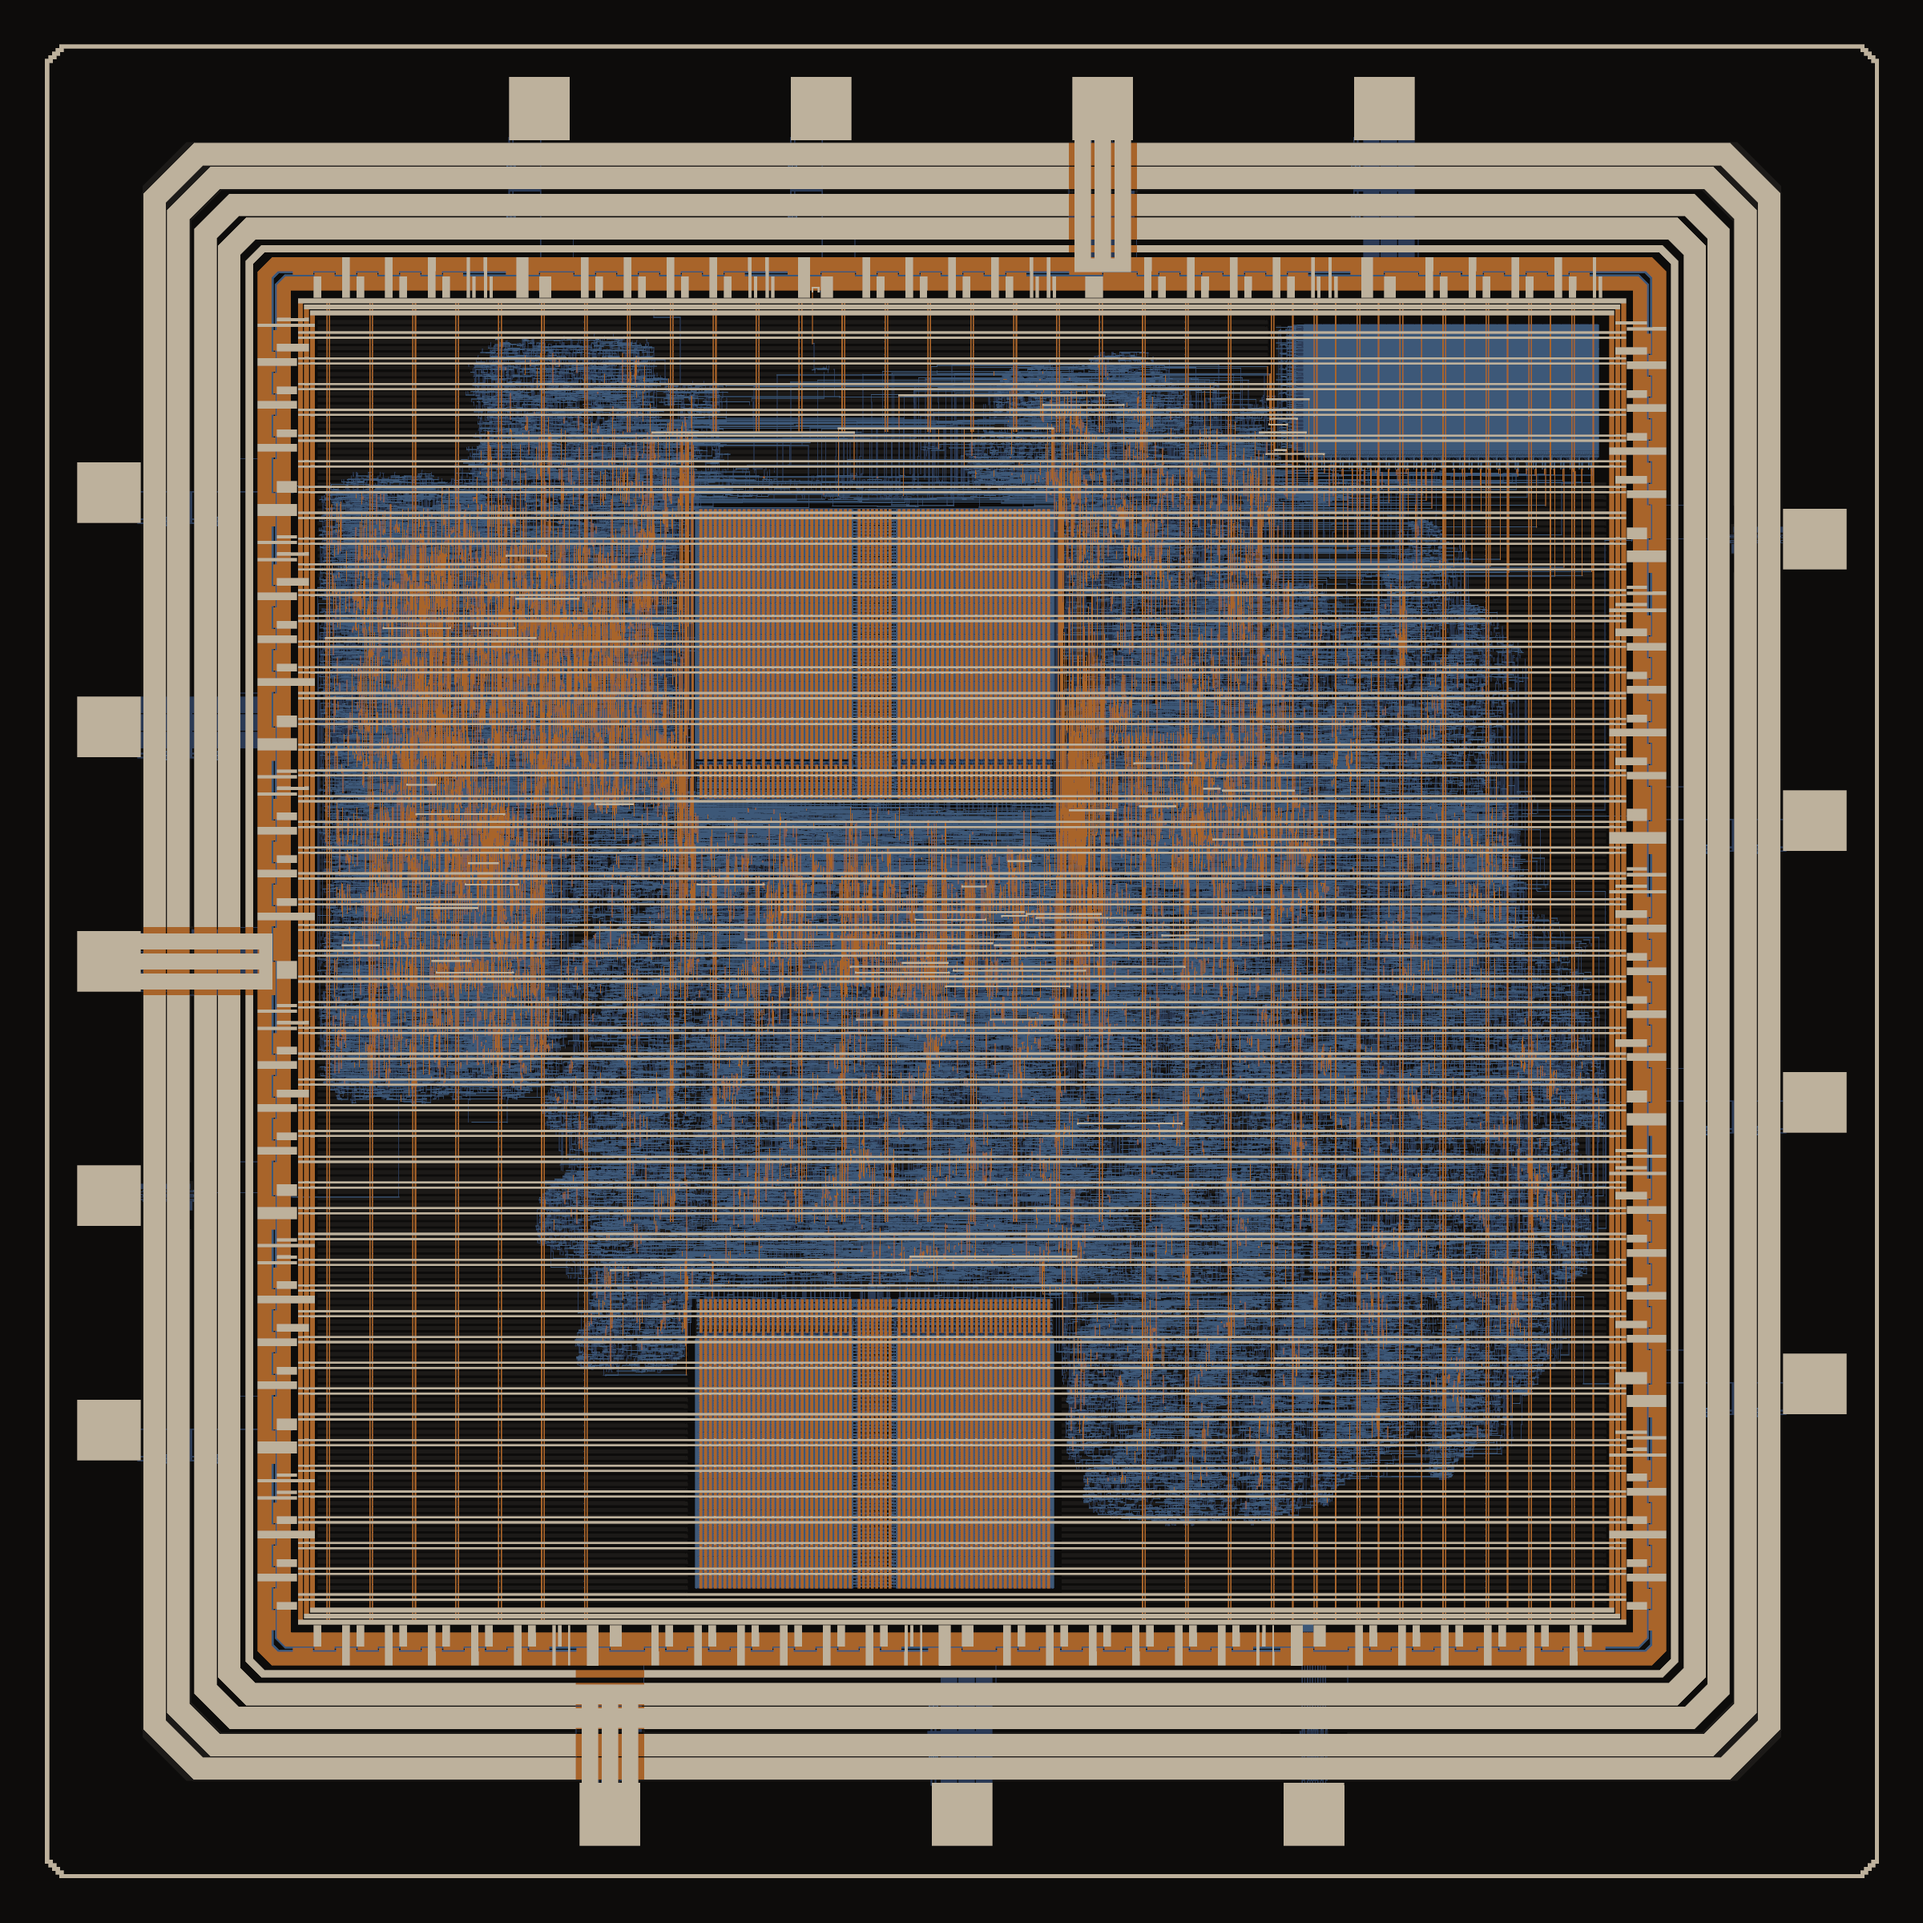
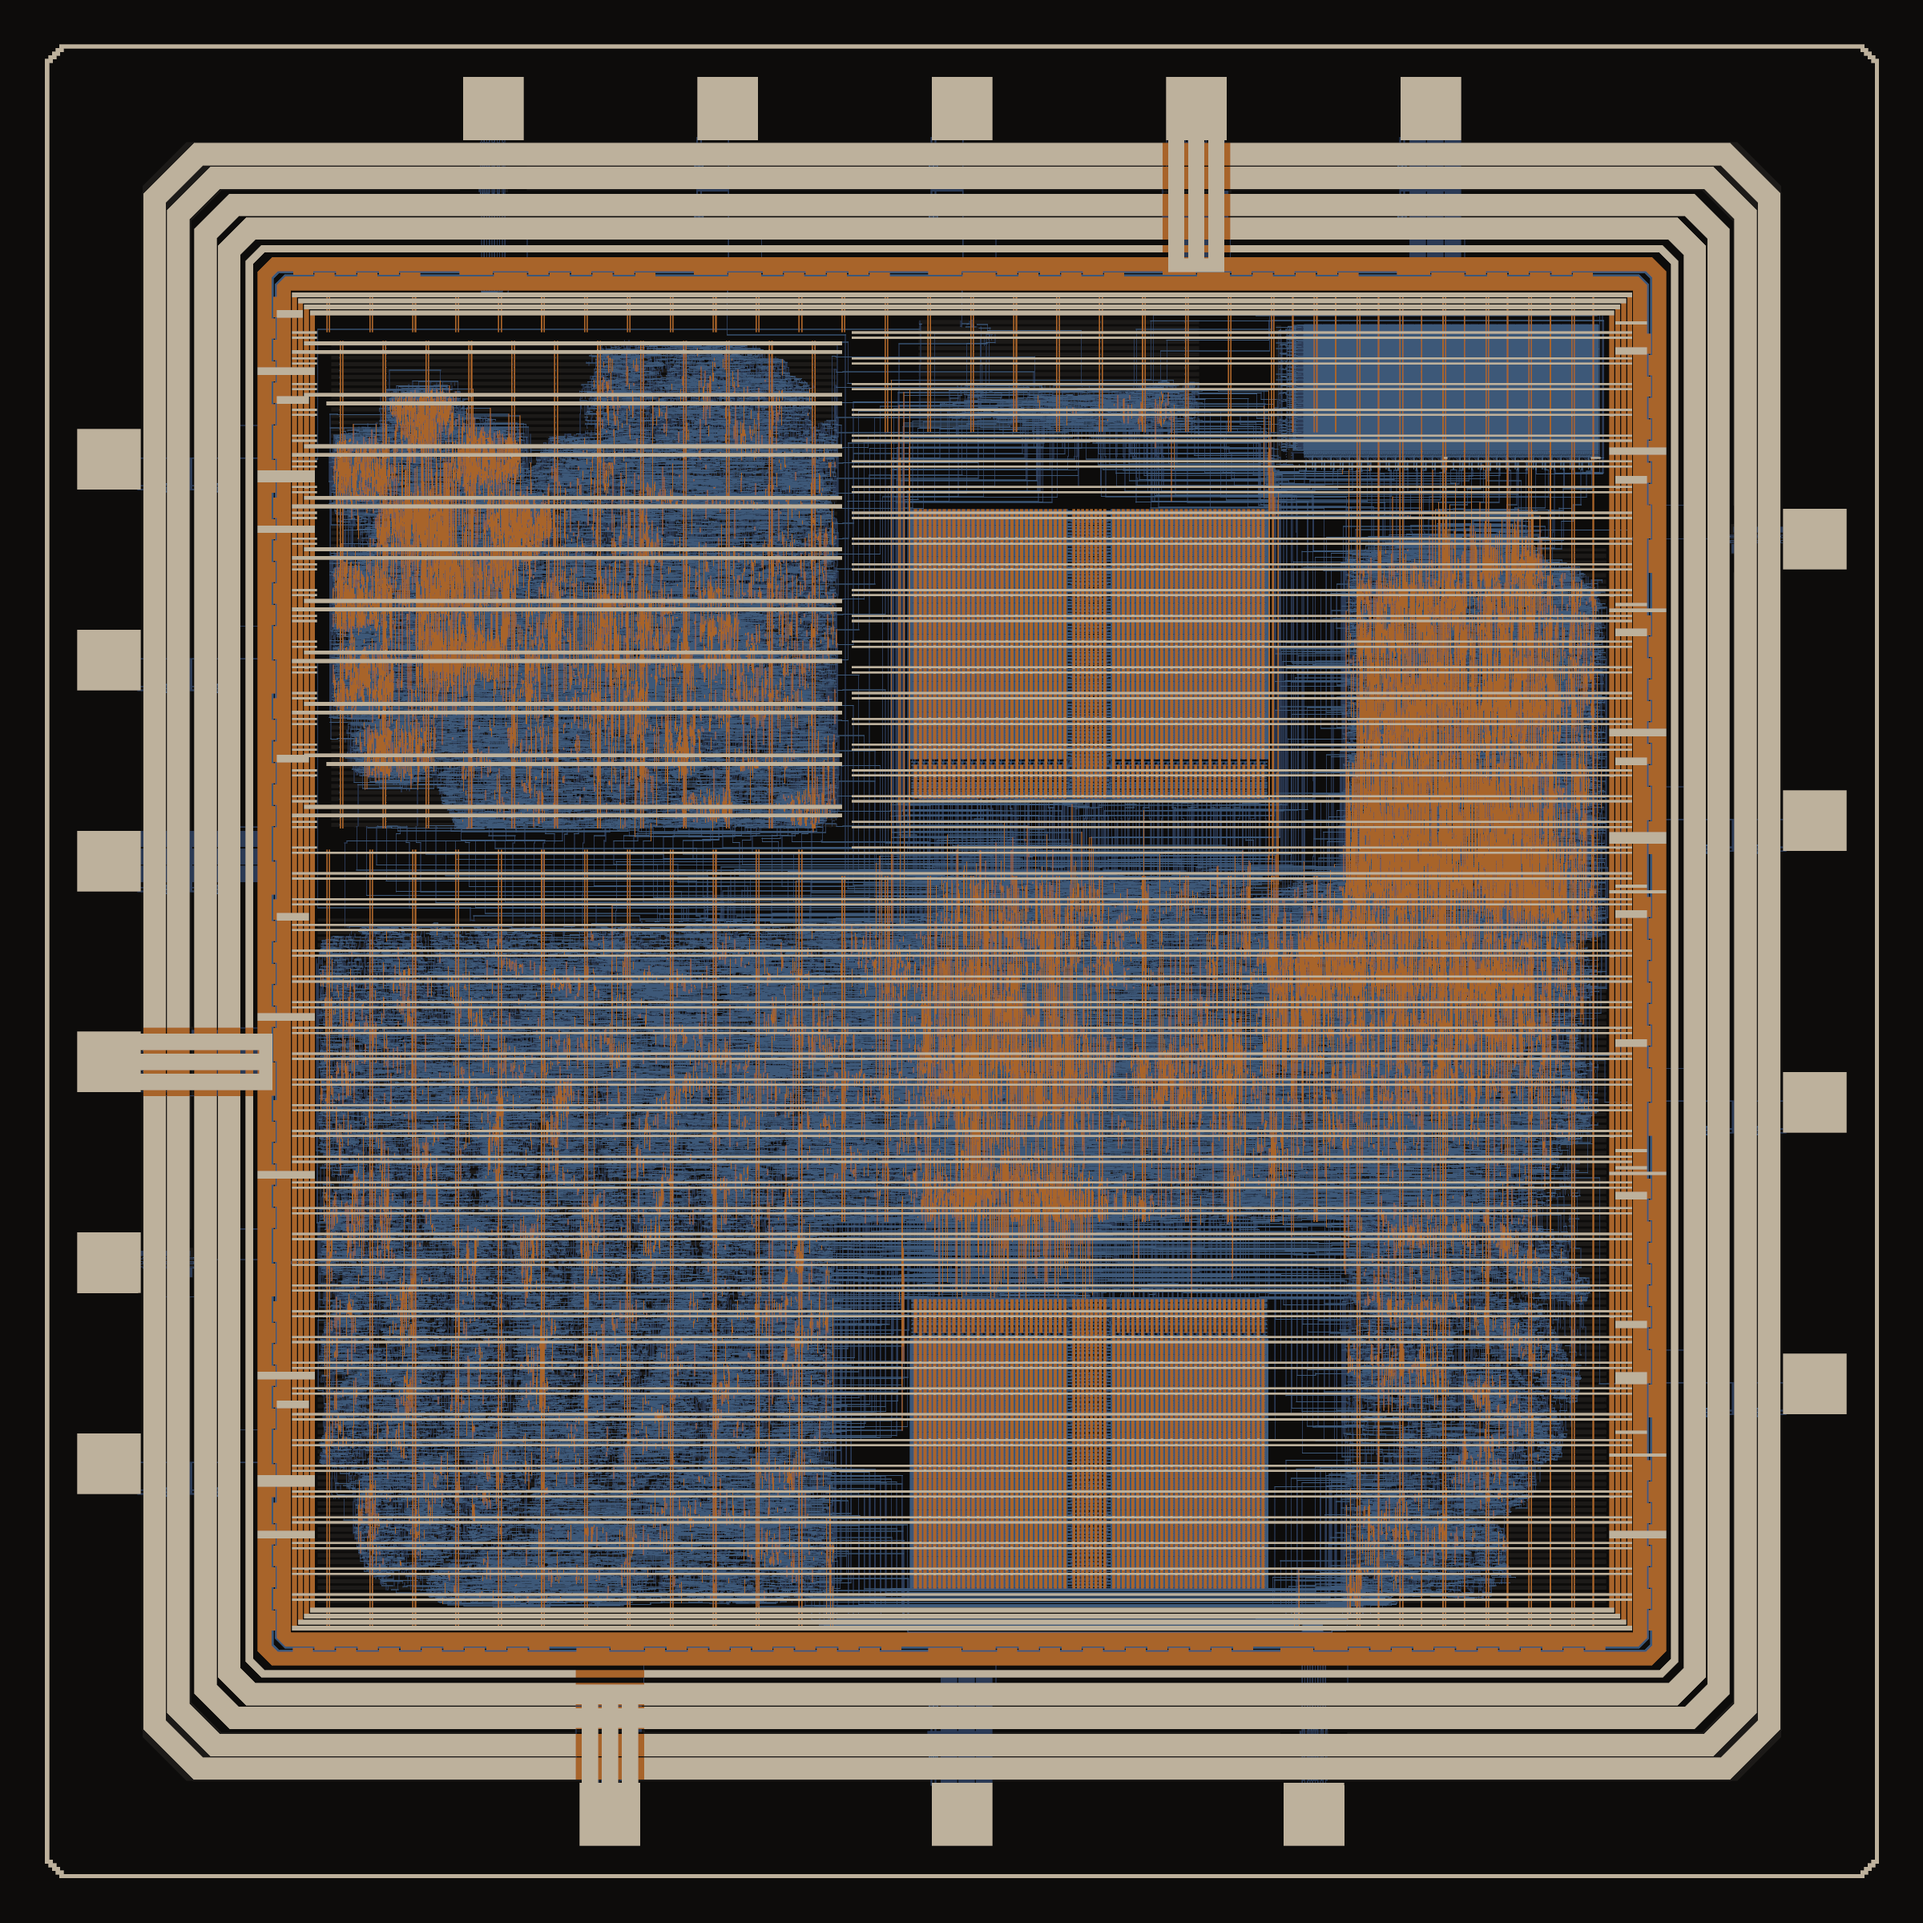
README: tape-out numbers and die image

diff --git a/README.md b/README.md
@@ -2,11 +2,11 @@
 
 **A RISC-V SoC with an 8x8 int8 systolic array, taken from RTL to signoff-clean GDS on IHP's open 130 nm SG13CMOS5L process using only open-source tools and KLayout-only signoff.**
 
-Argo pairs a PicoRV32 core with a weight-stationary matrix engine, two 4 KB IHP SRAM macros, a detachable 2 KB SRAM test block on its own supply, an SPI boot loader, a UART and a full 16-pad IO ring with bond pads. The whole chip passes IHP's KLayout DRC, density, antenna and LVS decks, and the routed netlist boots and runs its self-checking firmware, including a power-on self-test of every memory, in gate-level simulation. **v2.2 was taped out in November 2026; the tapeout at IHP is handled by Symbiotic EDA.**
+Argo pairs a PicoRV32 core with a weight-stationary matrix engine, two 4 KB IHP SRAM macros, a detachable 2 KB SRAM test block on its own supply, an SPI boot loader, a UART and a full IO ring with bond pads. The whole chip passes IHP's KLayout DRC, density, antenna and LVS decks, and the routed netlist boots and runs its self-checking firmware, including a power-on self-test of every memory, in gate-level simulation. **Argo was taped out in November 2026; the tapeout at IHP is handled by Symbiotic EDA.** The fabricated die also carries a test structure from a collaborator, with its own strap and supply pads. That block isn't part of this repository.
 
-![Argo v2.2 die](docs/argo_die_clean.png)
+![Argo die](docs/argo_die_clean.png)
 
-*Argo v2.2 as taped out, 2.2 x 2.2 mm, metal layers from the tape-out GDS with fill hidden. The two IHP SRAMs sit in the middle column, the SRAM test block at the top right, and the pad ring with its bond pads around the edge.*
+*Argo as taped out, 2.2 x 2.2 mm, metal layers from the tape-out GDS with fill hidden. The two IHP SRAMs sit in a column right of center, the SRAM test block at the top right, the collaborator's test structure at the top left, and the pad ring with its bond pads around the edge.*
 
 ---
 
@@ -39,20 +39,20 @@ Argo pairs a PicoRV32 core with a weight-stationary matrix engine, two 4 KB IHP 
 | | |
 |---|---|
 | Process | IHP SG13CMOS5L, 130 nm CMOS, 5 metal layers, 1.2 V core |
-| Status | v2.2 taped out, November 2026 (tapeout at IHP handled by Symbiotic EDA) |
+| Status | Taped out, November 2026 (tapeout at IHP handled by Symbiotic EDA) |
 | Die | 2.2 x 2.2 mm (core 1.5 x 1.5 mm), QFN32 package |
 | CPU | PicoRV32, RV32I + hardware multiply, booted over SPI |
 | Accelerator | 8x8 weight-stationary systolic array, signed int8 inputs, 32-bit accumulators |
 | Peak compute | 64 MACs per cycle, 6.4 GMAC/s at 100 MHz |
 | Memory | 2 x 4 KB `RM_IHPSG13_1P_1024x32` SRAM macros (instruction and data), plus a detachable 2 KB SRAM test block on its own supply |
 | Peripherals | SPI slave (boot loader plus direct array access), 8N1 UART TX at 115200 baud |
-| IO | 16 pads: 7 inputs, 2 outputs (16 mA), 7 power (two core VDD/VSS pairs, IOVDD/IOVSS, VDD_SRAM), plus 4 corners and 70 x 70 um bond pads |
-| Clock | 100 MHz at typical and fast corners, about 88 MHz worst case (slow corner) |
-| Size | 70,228 standard cells, 5,428 flip-flops, 55% core utilization |
-| Power | About 47.5 mW at default switching activity, 67 mW at 0.2 activity (typical corner) |
+| IO | 18 pads: 16 for Argo (7 inputs, 2 outputs at 16 mA, 7 power: two core VDD/VSS pairs, IOVDD/IOVSS, VDD_SRAM) plus a strap and a supply pad for a test structure not in this repo; 4 corners and 70 x 70 um bond pads |
+| Clock | 100 MHz at typical and fast corners, about 76 MHz worst case (slow corner) |
+| Size | 68,118 standard cells, 5,433 flip-flops |
+| Power | About 45 mW at default switching activity (typical corner) |
 | Flow | LibreLane 3.0.14 (Chip flow), Yosys, OpenROAD, KLayout, Icarus Verilog |
-| Signoff | KLayout DRC, density, antenna and LVS: all clean. Static IR drop about 3% |
-| CI | Built and checked on BlueGarden, Symbiotic EDA's self-hosted CI/CD system |
+| Signoff | KLayout DRC, density, antenna and LVS: all clean. Static IR drop about 4% |
+| CI | Pipeline set up for BlueGarden, Symbiotic EDA's self-hosted CI/CD system |
 
 ---
 
@@ -275,11 +275,13 @@ The SDC is `soc_padframe.sdc`:
 | North | `rst_n_pad` | `sg13cmos5l_IOPadIn` | Active-low reset |
 | North | `vdd_pad` | `sg13cmos5l_IOPadVdd` | Core supply (1.2 V) |
 | North | `vss_pad` | `sg13cmos5l_IOPadVss` | Core ground |
+| North | `vdd_td_pad` | `sg13cmos5l_IOPadAnalog` | Supply for a test structure not in this repo (1.2 V) |
 | West | `input_PAD[0]` | `sg13cmos5l_IOPadIn` | `uart_rx` (unused) |
 | West | `output_PAD[0]` | `sg13cmos5l_IOPadOut16mA` | `uart_tx` |
 | West | `vdd_pad2` | `sg13cmos5l_IOPadVdd` | Second core supply |
 | West | `vss_pad2` | `sg13cmos5l_IOPadVss` | Second core ground |
 | West | `sram_en_pad` | `sg13cmos5l_IOPadIn` | SRAM test block strap (pull down on the board) |
+| West | `td_en_pad` | `sg13cmos5l_IOPadIn` | Strap for a test structure not in this repo (pull down on the board) |
 | East | `input_PAD[1]` | `sg13cmos5l_IOPadIn` | `spi_clk` |
 | East | `input_PAD[2]` | `sg13cmos5l_IOPadIn` | `spi_cs_n` |
 | East | `input_PAD[3]` | `sg13cmos5l_IOPadIn` | `spi_mosi` |
@@ -304,13 +306,13 @@ The flow is LibreLane's **Chip** flow, configured in `config.yaml`. Every Magic 
 | `Netgen.LVS` | Replaced by `KLayout.LVS`, using the local deck in `lvs_local/` |
 | `KLayout.XOR`, illegal overlap check | Removed. Both depend on a Magic stream-out |
 
-**Floorplan.** The die is 2200 x 2200 um and the core is 1500 x 1500 um. The two IHP SRAMs are stacked in the middle of the core and the SRAM test block sits in the top-right corner.
+**Floorplan.** The die is 2200 x 2200 um and the core is 1500 x 1500 um. The two IHP SRAMs are stacked in a column right of center, the SRAM test block sits in the top-right corner, and a test structure from a collaborator takes a 600 x 600 um area in the top-left corner.
 
-**Power grid.** A custom PDN (`pdn_cfg_cmos5l.tcl`) builds a 5 um core ring connected to the pads, with straps at a 30 um pitch and dedicated macro connections. `VDD_SRAM` gets its own core ring and Metal4 straps over the test block, fed from its analog pad by `sram_test/vddsram_strap.tcl`. Static IR drop is 28 mV on VDD and 36 mV on VSS (about 3%), with sources at the real supply pads and 0.2 switching activity (W6 in `WAIVERS.md`).
+**Power grid.** A custom PDN (`pdn_cfg_cmos5l.tcl`) builds a 5 um core ring connected to the pads, with straps at a 30 um pitch and dedicated macro connections. `VDD_SRAM` gets its own core ring and Metal4 straps over the test block, fed from its analog pad by `sram_test/vddsram_strap.tcl`. Static IR drop is 29 mV on VDD and 50 mV on VSS (about 4%), with sources at the real supply pads and 0.2 switching activity (W6 in `WAIVERS.md`).
 
-**Placement, CTS and routing.** These are standard LibreLane steps, with timing repair after global routing and a hold margin of 0.05 ns during placement. Repair wire length is capped at 600 um, so long nets get buffered instead of loaded with antenna diodes. Detailed routing converges from 23,892 DRC violations on the first iteration to 0 on the fifth. Total wire length is 2.2 m.
+**Placement, CTS and routing.** These are standard LibreLane steps, with timing repair after global routing and a hold margin of 0.05 ns during placement. Repair wire length is capped at 600 um, so long nets get buffered instead of loaded with antenna diodes. Detailed routing converges to 0 DRC violations. Total wire length is 2.4 m.
 
-**Antenna.** The router inserts 1,266 diodes. Its own checker still flags 239 nets, but IHP's KLayout antenna deck, which is the signoff check, reports 0.
+**Antenna.** The router inserts 2,883 diodes. OpenROAD's LEF-based checker is more pessimistic, but IHP's KLayout antenna deck, which is the signoff check, reports 0.
 
 **Fill.** The PDK fill script runs first, then a shaped top-up fill in `fill_local/` raises Metal2 and Metal3 from below 25% to 29% density.
 
@@ -333,11 +335,22 @@ Note: the generated SRAM macro views (GDS, LEF, SPICE, Liberty) are not included
 
 ## Results
 
-All numbers are from the tape-out run `sram_full6`. The full metrics are in `results/metrics.json`, and every exception is written up in `WAIVERS.md`.
+The headline numbers from the tape-out run are below. The tape-out run adds a test structure from a collaborator and two pads, which moved the SRAM column and changed timing and IR drop.
+
+| | Tape-out run |
+|---|---|
+| DRC / LVS / antenna / density | 0 / match / 0 / 0 |
+| Setup, typical / slow / fast | +1.75 / -3.16 / +4.58 ns |
+| Hold, worst | +0.039 ns |
+| Static IR drop, VDD / VSS | 29 / 50 mV |
+| Standard cells / flip-flops | 68,118 / 5,433 |
+| Power, default activity | 45 mW |
+
+The detailed tables below the summary image are from the v2.2 signoff run `sram_full6`, which is the design this repository builds. Its full metrics are in `results/metrics.json`, and every exception is written up in `WAIVERS.md`.
 
 ![Signoff summary](docs/argo_signoff_table.png)
 
-### Signoff
+### Signoff (v2.2 run)
 
 | Check | Tool | Result |
 |---|---|---|
@@ -350,7 +363,7 @@ All numbers are from the tape-out run `sram_full6`. The full metrics are in `res
 | Static IR drop | OpenROAD PSM | **28 / 36 mV** on VDD / VSS |
 | Gate-level simulation | Icarus, zero-delay and SDF cell delays | **POST passes with `sram_en` high and low** |
 
-### Timing (10 ns clock)
+### Timing, v2.2 run (10 ns clock)
 
 | Corner | Setup WNS | Setup TNS | Hold WNS |
 |---|---|---|---|
@@ -360,7 +373,7 @@ All numbers are from the tape-out run `sram_full6`. The full metrics are in `res
 
 Hold is met at every corner on top of the 0.10 ns hold uncertainty in the SDC, so the chip works at any clock up to its setup limit. The worst hold path, at the fast corner, is a short PE-to-PE hop inside the array. A worst-case part on a low supply at 125 C needs a clock of about 88 MHz (W1 in `WAIVERS.md`).
 
-### Area
+### Area, v2.2 run
 
 | Component | Area (mm²) | Count |
 |---|---|---|
@@ -382,7 +395,7 @@ The standard cell count breaks down as:
 | Clock buffers and inverters | 1,905 |
 | Inverters | 1,459 |
 
-### Power (typical corner)
+### Power, v2.2 run (typical corner)
 
 | | |
 |---|---|
@@ -464,7 +477,7 @@ Timing-driven RTL changes made along the way:
 ## Known limits
 
 - **LVS coverage** is the standard cells and the top-level wiring. Pads and SRAM macros are black-boxed. SRAM hookup is checked three other ways: a pin check against the RTL, gate-level simulation, and a count of power vias on every supply stripe (`count_sram_vias.py`, `sram_pins.py`).
-- **Slow corner timing.** Setup misses 100 MHz by 1.38 ns, so a worst-case part needs about 88 MHz. 66 slew, 224 fan-out and 7 capacitance violations remain at the slow corner, mostly antenna diode loads on the `mem_wdata` bus (W1, W2). Typical and fast pass, and hold is met at every corner.
+- **Slow corner timing.** On the tape-out run, setup misses 100 MHz by 3.16 ns, so a worst-case part needs about 76 MHz. Slew, fan-out and capacitance violations remain at the slow corner, mostly antenna diode loads on the `mem_wdata` bus (W1, W2). Typical and fast pass, and hold is met at every corner.
 - **No array status register.** The array's `done` pulse only went to the interrupt line, which is disabled, so firmware waits a fixed delay instead of polling. The delay has a wide margin over the 27-cycle pipeline.
 - **No divide.** `ENABLE_DIV=0`, so the firmware must not use divide or remainder instructions.
 - **UART RX** has a pad but no receiver.
